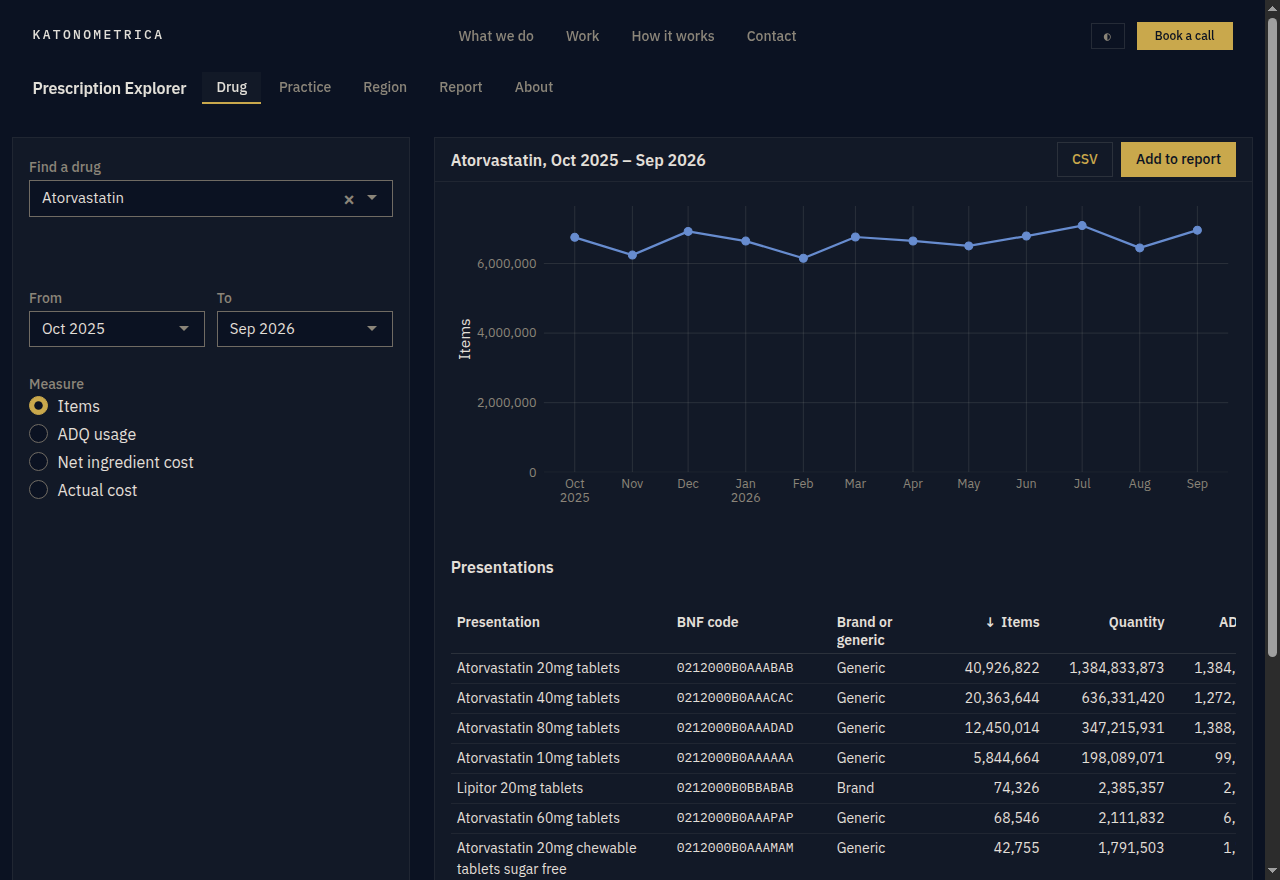
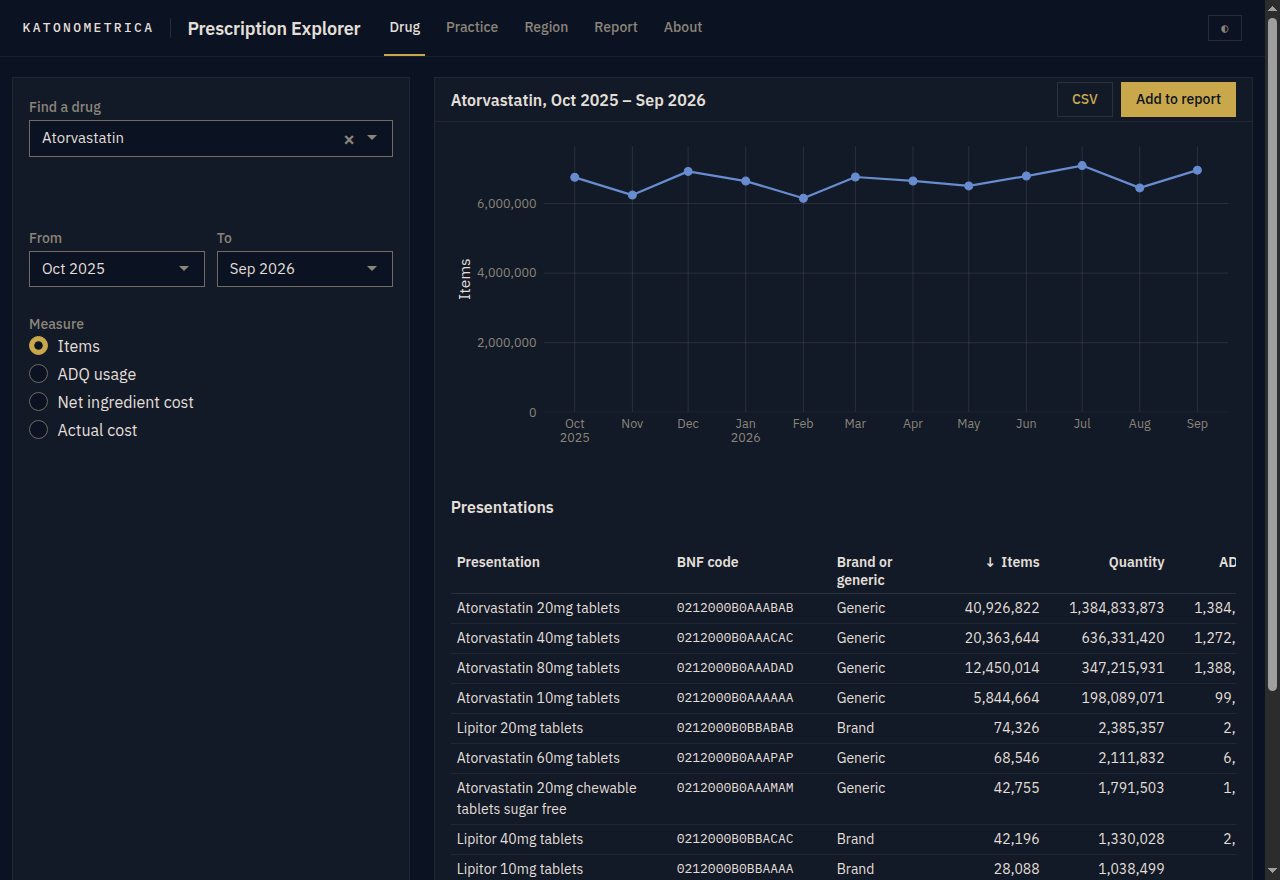
P7-06 · The review's fixes: tabs that wrap, the 860 px breakpoint, the screenshots
- Where the five tabs do not fit on one line (below about 350 px, or a
  page zoomed to 400 %), they wrap onto a second rather than scroll, so
  the open tab is never out of sight.
- The tabs go under the name below 860 px rather than 992 px: one row
  fits down to about 790 px.
- Flow 7 checks each tab against the tabs' list, not the window: one row
  at 1280 px, one line of tabs at 390 px, two at 320 px, and 760 px.
- The README's screenshots, retaken at 1280 x 880 from this branch's app
  on the full twelve months.

diff --git a/inst/app/www/prexp.css b/inst/app/www/prexp.css
@@ -217,13 +217,14 @@ a:focus-visible,
   border-color: var(--prexp-accent);
 }
 
-/* Below 992 px the row has no room for all of it: the tabs go under the
-   name, and scroll sideways if they still do not fit, while the theme
-   button stays beside the name. No menu button. bslib pulls each tab's foot
-   down past the list to the navbar's edge, where a list that scrolls would
-   cut it off: here the list ends at that edge, and each tab's rule and its
-   focus outline stay inside it. */
-@media (max-width: 991.98px) {
+/* Below 860 px the row has no room to spare (it needs about 790 px): the
+   tabs go under the name, the theme button stays beside it, and no menu
+   button hides them. Where the five do not fit on one line they wrap onto a
+   second, so that none is ever out of sight. bslib pulls each tab's foot
+   down past the list to the navbar's edge, which would put the open tab's
+   rule over a second line of tabs: here each tab keeps its foot, and the
+   list ends at the navbar's edge. */
+@media (max-width: 859.98px) {
   .navbar {
     padding-bottom: 0;
   }
@@ -233,22 +234,16 @@ a:focus-visible,
   .navbar ul.nav.navbar-nav {
     order: 1;
     flex: 0 0 100%;
-    overflow-x: auto;
-    overflow-y: hidden;
-    scrollbar-width: thin;
-    scrollbar-color: var(--prexp-control-border) transparent;
+    flex-wrap: wrap;
   }
   .navbar ul.nav-underline .nav-link {
     padding-bottom: var(--bs-nav-link-padding-y);
     margin-bottom: 0;
   }
-  .navbar ul.nav-underline .nav-link:focus-visible {
-    outline-offset: -2px;
-  }
 }
 /* Below 600 px, a phone: the app's name alone, as the footer carries the
-   wordmark too, and the tabs closer, so that the five fit across a phone
-   360 px wide */
+   wordmark too, and the tabs closer, so that the five fit on one line
+   across most phones */
 @media (max-width: 599.98px) {
   .prexp-header-wordmark {
     display: none;

diff --git a/docs/spec.md b/docs/spec.md
@@ -312,8 +312,8 @@ Every view handles three states besides the normal one: nothing selected, no row
 - **One source for the colours.** `brand_tokens()` in `R/theme.R` holds each theme's colours. `brand_css()` writes them into the head as custom properties (`--prexp-*`) and as Bootstrap's own, and `inst/app/www/prexp.css` styles every component from those alone. The tests check, in both themes, every text on every surface it sits on at 4.5:1 and every mark and control edge at 3:1.
 - **Type.** IBM Plex Sans, weights 400 to 600, for everything; IBM Plex Mono for small details: codes, badges, the footer's provenance line. The site's files are served with the app from `inst/app/www/fonts`, under the SIL Open Font License 1.1 (`OFL.txt` beside them); nothing is fetched from elsewhere.
 - **Charts.** Drawn once on the server, in the light theme's colours, with no background of their own. CSS generated from the same tokens maps each role's colour to the theme shown, so a switch costs no redraw and no cache entry: marks in navy blue (#355695 light, #678ccf dark); a selected mark in the gold, a bar outlined at 2 px in the text colour, a point drawn 1.8 times larger with a 1 px ring in the text colour; tick labels in the secondary text colour, axis titles in the text colour, gridlines as faint as the borders, at one pixel. Tooltips are square, in IBM Plex Sans. The server measures the charts' text with the page's own copy of IBM Plex Sans, registered with `systemfonts` when the app starts, unless IBM Plex Sans is installed: the installed font, with the same metrics, then measures it.
-- **The header.** One row, the owner's decision of 27 November 2026 (#141), which replaced the two rows of #137, katonometrica.com's own bar over the app's: bslib's navbar on the page's colour, a rule under it, scrolling with the page. In it, KATONOMETRICA's wordmark as the site's bar draws it (IBM Plex Mono, 13 px, weight 500, letter-spaced 0.18 em, in the text colour, gold under the pointer), linking to https://katonometrica.com/ in the same tab, with a hairline between it and the app's name; "Prescription Explorer" as text (18 px, weight 600, in the text colour); the five tabs as the site's links (14 px, weight 500, in the secondary text colour), the open one in the text colour over a 2 px gold rule, which screen readers hear as the selected tab (Bootstrap's `role="tab"` and `aria-selected`); and the theme button at the right. Nothing else: none of the site's sections, no Book a call, no menu button. The row is a navigation landmark named "Prescription Explorer". Before it comes a skip link, "Skip to main content" (IBM Plex Mono, 12 px, letter-spaced 0.08 em, in capitals, in the colour of text on the gold), the keyboard's first stop: out of sight until it takes the focus, then a gold chip at the page's top-left corner, which leads past the header to the tabs' content, the main landmark (`#main-content`). Below 992 px, where the row has no room for all of it, the tabs go under the app's name and the theme button stays beside it; below 600 px, a phone, the wordmark is left to the footer and the tabs sit closer, so that the five fit across a phone 360 px wide; where they do not fit at all they scroll sideways. In a forced-colours mode (Windows' contrast themes) the open tab keeps its rule, in the system's highlight colour, and the others none.
-- **Components.** Cards on the brand's surface with a 1 px border. Fields, selects and the note box as the site's inputs: a well of the page's colour, the edge gold on focus, no glow. Radios stay round, filled gold when checked. One gold button per view (Add to report, Prepare); the site's outline button for downloads and links; ghost buttons for moving and removing. Neutral badges in Plex Mono, "Months clamped" marked by the word Note rather than a warning colour. Tables on no background of their own, a stronger rule under the header, no stripes. Notifications as the site's: square and opaque. The About tab as the site's policy pages: one column at most 800 px wide. Focus is a 2 px gold outline, 2 px off the element, or just inside it where a scroll box would cut it: a table's cell, and a tab where the tabs go under the app's name. The favicon is the brand's mark.
+- **The header.** One row, the owner's decision of 27 November 2026 (#141), which replaced the two rows of #137, katonometrica.com's own bar over the app's: bslib's navbar on the page's colour, a rule under it, scrolling with the page. In it, KATONOMETRICA's wordmark as the site's bar draws it (IBM Plex Mono, 13 px, weight 500, letter-spaced 0.18 em, in the text colour, gold under the pointer), linking to https://katonometrica.com/ in the same tab, with a hairline between it and the app's name; "Prescription Explorer" as text (18 px, weight 600, in the text colour); the five tabs as the site's links (14 px, weight 500, in the secondary text colour), the open one in the text colour over a 2 px gold rule, which screen readers hear as the selected tab (Bootstrap's `role="tab"` and `aria-selected`); and the theme button at the right. Nothing else: none of the site's sections, no Book a call, no menu button. The row is a navigation landmark named "Prescription Explorer". Before it comes a skip link, "Skip to main content" (IBM Plex Mono, 12 px, letter-spaced 0.08 em, in capitals, in the colour of text on the gold), the keyboard's first stop: out of sight until it takes the focus, then a gold chip at the page's top-left corner, which leads past the header to the tabs' content, the main landmark (`#main-content`). Below 860 px, where the row has no room to spare (it needs about 790 px), the tabs go under the app's name and the theme button stays beside it; below 600 px, a phone, the wordmark is left to the footer and the tabs sit closer, so that the five fit on one line across most phones. Where they do not, as at 320 px (a narrow phone, or a page zoomed to 400 %), they wrap onto a second line: the tabs never scroll, and none is ever out of sight. In a forced-colours mode (Windows' contrast themes) the open tab keeps its rule, in the system's highlight colour, and the others none.
+- **Components.** Cards on the brand's surface with a 1 px border. Fields, selects and the note box as the site's inputs: a well of the page's colour, the edge gold on focus, no glow. Radios stay round, filled gold when checked. One gold button per view (Add to report, Prepare); the site's outline button for downloads and links; ghost buttons for moving and removing. Neutral badges in Plex Mono, "Months clamped" marked by the word Note rather than a warning colour. Tables on no background of their own, a stronger rule under the header, no stripes. Notifications as the site's: square and opaque. The About tab as the site's policy pages: one column at most 800 px wide. Focus is a 2 px gold outline, 2 px off the element, or just inside a table's cell, which the table's scroll box would cut. The favicon is the brand's mark.
 - **Where the app departs from the site,** for WCAG AA, which the brand calls non-negotiable:
 
 | What | The site | The app |
@@ -381,7 +381,7 @@ Tests connect to the `prexp_test` database, and make the databases they read or 
 3. Install the package, then `lintr::lint_package()`, failing on any lint
 4. `prexp::migrate()` on the empty service database and on the test database
 5. Tests and coverage in one run. The gate: 85% overall, and no package function with zero coverage, so deleting any test that is a function's only coverage fails CI. The `coverage/` report is uploaded as an artifact
-6. The end-to-end flows (`tests/testthat/e2e-flows.R`): the app as the `app` image runs it, the installed package with its background workers, on the fixture database, driven in Google Chrome by `shinytest2`. Seven flows: search a drug, see its series and change the measure; page through a practice's top drugs; compare a drug across the regions; pin two views with notes and export them to Excel; copy the report's link and open it in a new tab; type, paste or dictate over a picked drug; and open the page dark, switch it to light with the theme button, which recolours the page and a chart, and open it light again on a narrow screen, with the keyboard's focus shown on a radio, on the skip link, which leads past the header to the open tab's first control, and on the header's wordmark; there the tabs under the app's name, the theme button beside it and the open tab's gold rule, and on a phone all five tabs on screen. They assert on values and outputs, against the fetch functions' results, never on screenshots. The file's name does not start with `test`, so the suite and the coverage run leave it out: the app runs in its own process, where coverage could not count it. A skipped flow fails the step, since shinytest2 skips rather than fails a flow when Chrome cannot start; a failing run uploads the apps' logs
+6. The end-to-end flows (`tests/testthat/e2e-flows.R`): the app as the `app` image runs it, the installed package with its background workers, on the fixture database, driven in Google Chrome by `shinytest2`. Seven flows: search a drug, see its series and change the measure; page through a practice's top drugs; compare a drug across the regions; pin two views with notes and export them to Excel; copy the report's link and open it in a new tab; type, paste or dictate over a picked drug; and open the page dark and switch it to light with the theme button, which recolours the page and a chart, with the keyboard's focus shown on a radio; the header as one row on a wide screen, and on a phone the five tabs on one line under the app's name, wrapped onto two at 320 px, none cut off; then open the page light again on a narrow screen, with the focus shown on the skip link, which leads past the header to the open tab's first control, and on the header's wordmark, and the tabs under the app's name, the theme button beside it and the open tab's gold rule. They assert on values and outputs, against the fetch functions' results, never on screenshots. The file's name does not start with `test`, so the suite and the coverage run leave it out: the app runs in its own process, where coverage could not count it. A skipped flow fails the step, since shinytest2 skips rather than fails a flow when Chrome cannot start; a failing run uploads the apps' logs
 7. Jobs `app-image` (pull requests, read-only token) and `app-publish` (`main` only): build the `app` image on the tested CI image's own layers and check that `library(prexp)` loads. `app-publish` pushes `:<commit sha>`, and moves `:main` only while the commit is still the tip of `main`, so re-running an old run cannot roll it back. When `:main` moved, it asks Coolify's API to deploy the app and the `jobs` container (P6-02), over HTTPS, with a deploy-only token. The token, Coolify's host name and the two applications' ids are four repository secrets, one value in each, so that Actions hides each in its logs. Coolify answers 200 even when it could not queue an application, so the step checks that both were queued
 
 Triggers: pull requests, pushes to `main`, a monthly schedule on the 1st (which publishes the refreshed image) and manual runs. Third-party actions are pinned to commit SHAs and updated by Dependabot, with a seven-day cooldown on new releases; the BuildKit image is pinned by digest and updated by hand, because the image jobs hold a token that can push packages. The required check is strict: a pull request must be up to date with `main` before it merges. The container packages are public from P6-02, so the server pulls them without logging in; jobs log in with `GITHUB_TOKEN` to push, and to read the registry caches.
